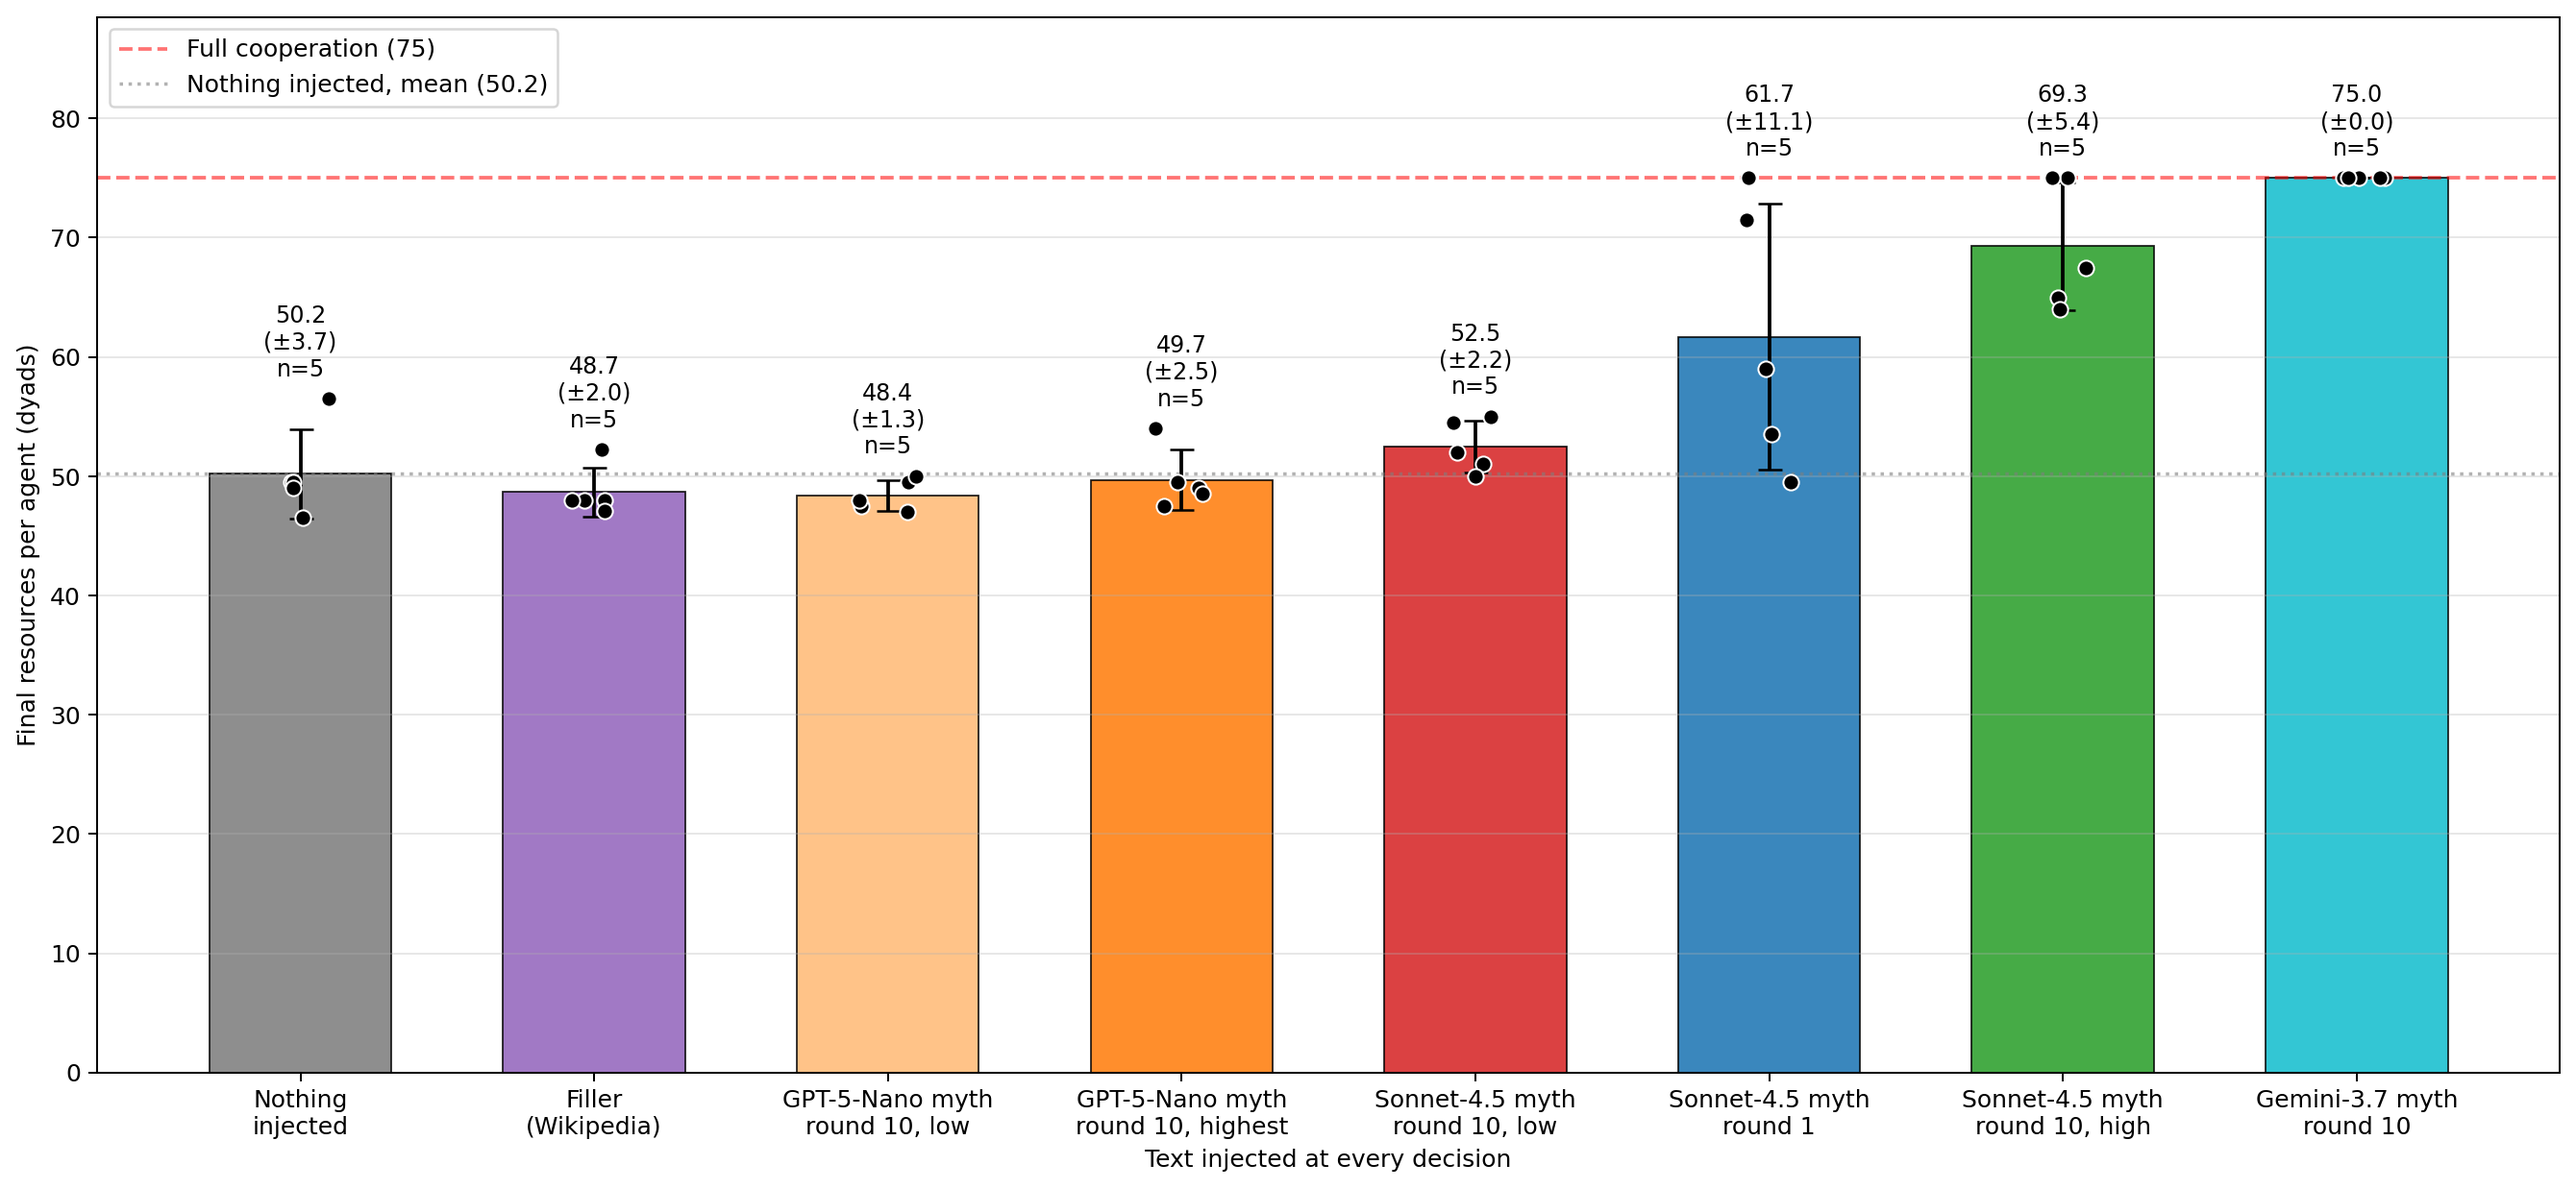
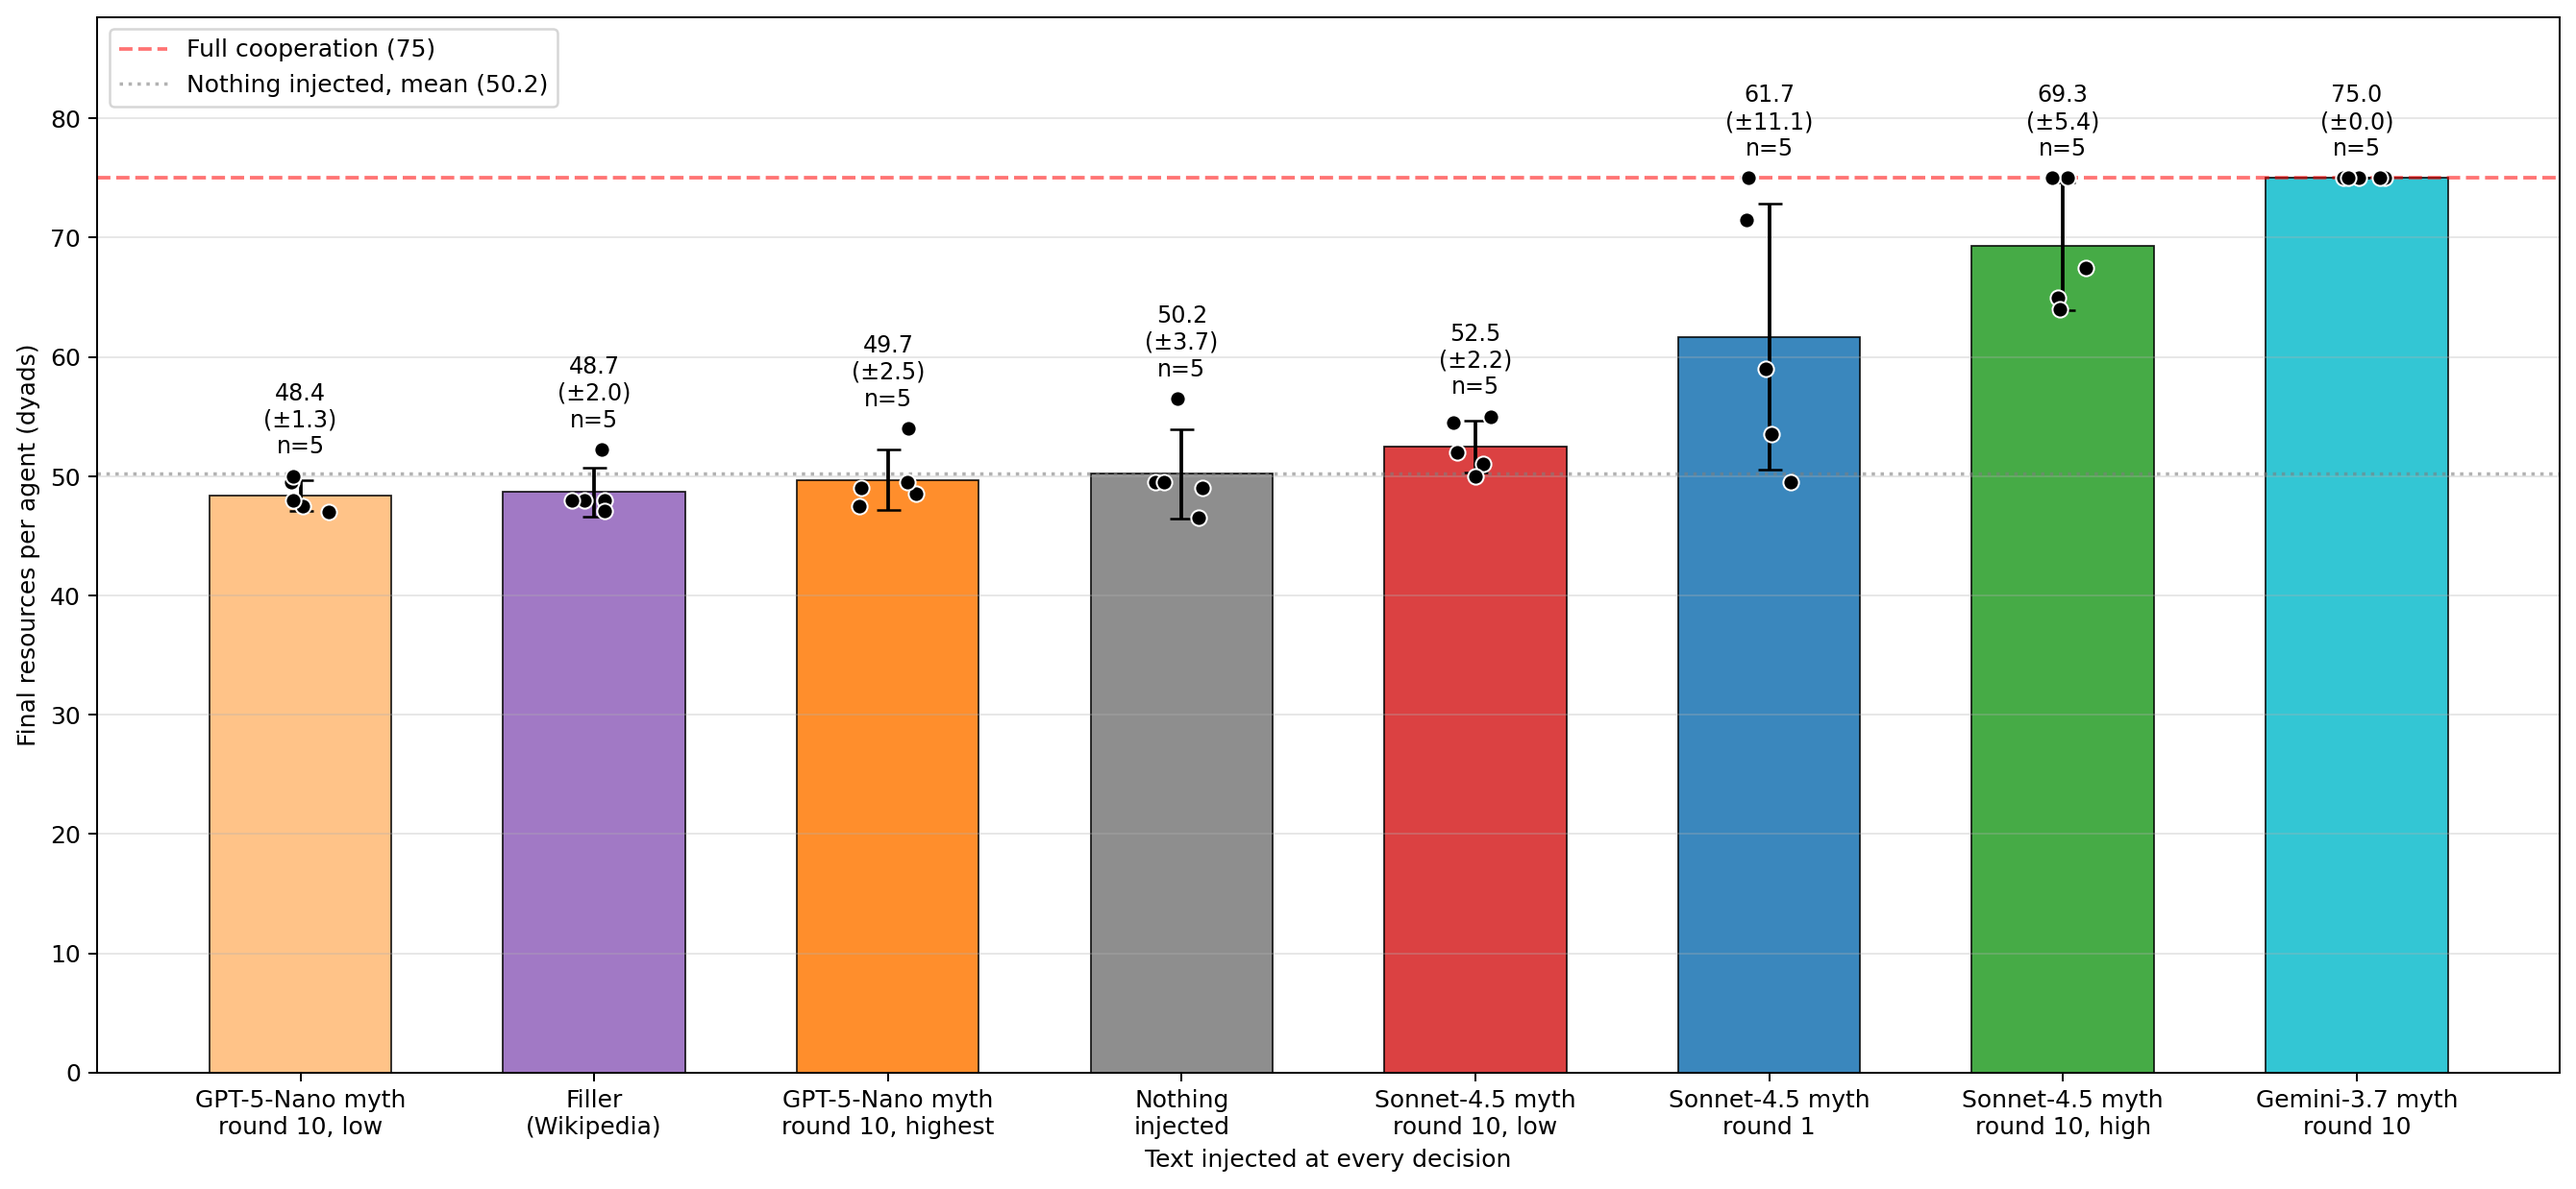
Myth-injection figures: order bars by cell mean

Changed region(s): [[0.3097, 0.3069, 0.4955, 0.9515], [0.0619, 0.2763, 0.1549, 0.9515], [0.4336, 0.2763, 0.4646, 0.3683]]

diff --git a/analyses/plot_myth_injection_noise1.py b/analyses/plot_myth_injection_noise1.py
@@ -89,7 +89,9 @@ def bar_figure(size, values, out_dir):
     positions = np.arange(len(CELLS))
     rng = np.random.default_rng(seed=6)
     tops = []
-    for index, (cell, _label, color, _legend) in enumerate(CELLS):
+    # Bars run from the lowest cell mean (left) to the highest (right), per figure.
+    cells = sorted(CELLS, key=lambda item: statistics.mean(values[item[0]].values()))
+    for index, (cell, _label, color, _legend) in enumerate(cells):
         observations = [values[cell][rep] for rep in range(5)]
         mean = statistics.mean(observations)
         sd = statistics.stdev(observations)
@@ -105,7 +107,7 @@ def bar_figure(size, values, out_dir):
     ax.axhline(baseline, color="#7f7f7f", linestyle=":", alpha=0.6, linewidth=1.4,
                label=f"Nothing injected, mean ({baseline:.1f})")
     ax.set_xticks(positions)
-    ax.set_xticklabels([label for _, label, _, _ in CELLS], fontsize=10)
+    ax.set_xticklabels([label for _, label, _, _ in cells], fontsize=10)
     ax.set_xlabel("Text injected at every decision")
     ax.set_ylabel(f"Final resources per agent ({group_label})")
     ax.set_ylim(0, max(tops) + 12)
